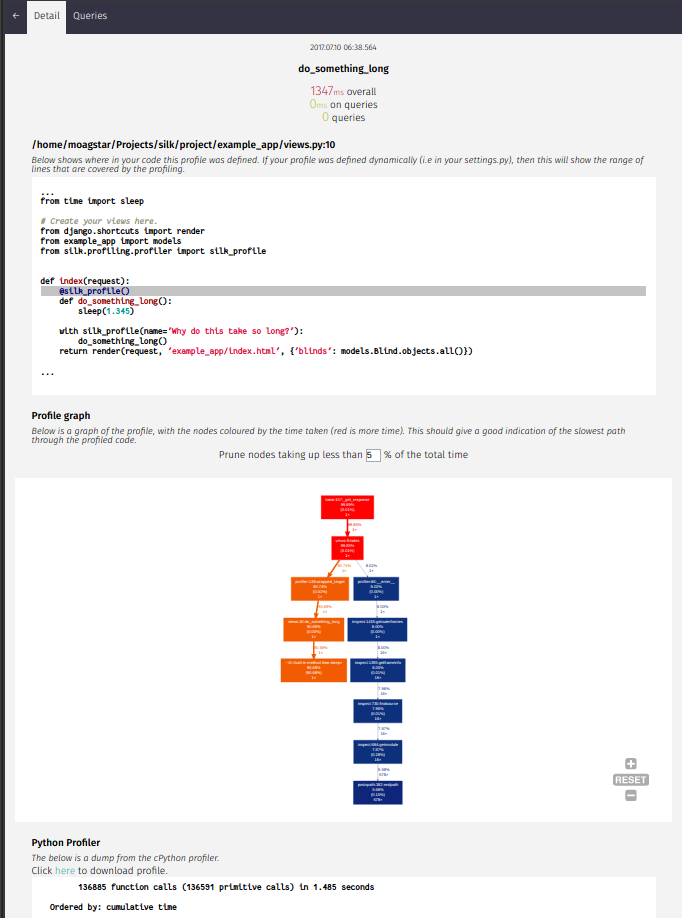
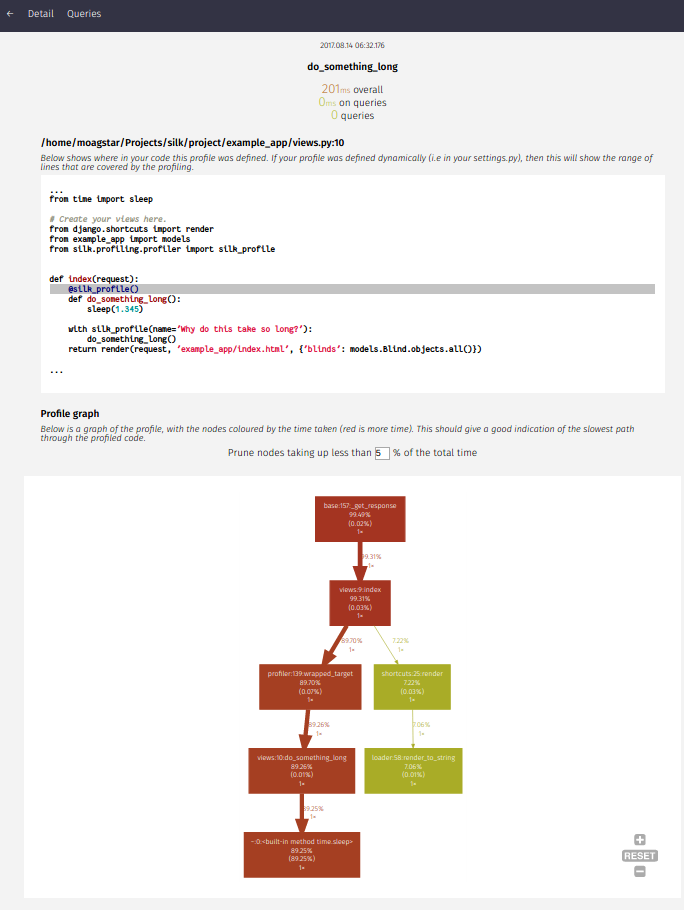
Changed the theme of gprof2dot output to be more inline with rest of silk design (#210)
* add .venv* to .gitignore

* Changed the theme of gprof2dot output to be more inline with the design of the rest of silk. Also increased the height to mak it a little more easier to visualize

diff --git a/silk/templates/silk/profile_detail.html b/silk/templates/silk/profile_detail.html
@@ -7,7 +7,6 @@
 {% block js %}
     <script type="text/javascript" src="{% static 'silk/lib/viz-lite.js' %}"></script>
     <script type="text/javascript" src="{% static 'silk/lib/svg-pan-zoom.min.js' %}"></script>
-    <script type="text/javascript" src="{% static 'silk/lib/sortable.js' %}"></script>
     {{ block.super }}
 {% endblock %}
 
@@ -67,26 +66,6 @@
 
         svg {
           display: block;
-        }
-        
-        .file-path {
-            font-size: 13px;
-        }
-
-        .file-path>a {
-            color: black;
-        }
-
-        .file-path>a:hover {
-            color: #9dd0ff;
-        }
-
-        .file-path>a:active {
-            color: #594F4F;
-        }
-
-        #pyprofile-table {
-            margin-top: 25px;
         }
 
     </style>
@@ -150,7 +129,7 @@
                         function (response) {
                             var svg = '#graph-div';
                             $(svg).html(Viz(response.dot));
-                            $(svg + ' svg').attr('width', 960).attr('height', 480);
+                            $(svg + ' svg').attr('width', 960).attr('height', 600);
                             svgPanZoom(svg + ' svg', { controlIconsEnabled: true });
                         }
                     );
@@ -164,38 +143,13 @@
                 <div class="heading">
                     <div class="inner-heading">Python Profiler</div>
                 </div>
-
                 <div class="description">
-                    Below is a dump from the cPython profiler.
-                    {% if silk_request.prof_file %}
-                    Click <a href="{% url 'silk:request_profile_download' request_id=silk_request.pk %}">here</a> to download profile.
-                    {% endif %}
+                    The below is a dump from the cPython profiler.
                 </div>
-
-                <table id='pyprofile-table' class="sortable">
-                    {% for row in silk_request.profile_table %}
-                        <tr>
-                            {% for column in row %}
-                                {% if forloop.parentloop.counter0 %}
-                                    <td>
-                                        {% if forloop.counter0 == file_column %}
-                                            <div class="file-path">
-                                                {{ column }}
-                                            </div>
-                                            {% if forloop.parentloop.counter0 == pos %}
-                                                {% code pyprofile_code pyprofile_actual_line %}
-                                            {% endif %}
-                                        {% else %}
-                                            {{ column }}
-                                        {% endif %}
-                                    </td>
-                                {% else %}
-                                    <th>{{ column }}</th>
-                                {% endif %}
-                            {% endfor %}
-                        </tr>
-                    {% endfor %}
-                </table>
+                {% if silk_request.prof_file %}
+                Click <a href="{% url 'silk:request_profile_download' request_id=silk_request.pk %}">here</a> to download profile.
+                {% endif %}
+                <pre class="pyprofile">{{ silk_request.pyprofile }}</pre>
                 {% endif %}
             </div>
 

diff --git a/silk/views/profile_dot.py b/silk/views/profile_dot.py
@@ -10,10 +10,20 @@ from django.shortcuts import get_object_or_404
 from django.utils.decorators import method_decorator
 from django.views.generic import View
 from django.http import HttpResponse
-from gprof2dot import DotWriter, PstatsParser, Profile, TEMPERATURE_COLORMAP
+from gprof2dot import DotWriter, PstatsParser, Theme
 # silk
 from silk.auth import login_possibly_required, permissions_possibly_required
 from silk.models import Request
+
+
+COLOR_MAP = Theme(
+    mincolor=(0.18, 0.51, 0.53),
+    maxcolor=(0.03, 0.49, 0.50),
+    gamma=1.5,
+    fontname='FiraSans',
+    minfontsize=6.0,
+    maxfontsize=6.0,
+)
 
 
 @contextmanager
@@ -48,15 +58,8 @@ def _create_dot(profile, cutoff):
     profile.prune(node_cutoff, edge_cutoff, False)
 
     with closing(StringIO()) as fp:
-        DotWriter(fp).graph(profile, TEMPERATURE_COLORMAP)
+        DotWriter(fp).graph(profile, COLOR_MAP)
         return fp.getvalue()
-
-
-def _get_dot(request_id, cutoff):
-    silk_request = get_object_or_404(Request, pk=request_id, prof_file__isnull=False)
-    profile = _create_profile(silk_request.prof_file)
-    result = dict(dot=_create_dot(profile, cutoff))
-    return HttpResponse(json.dumps(result).encode('utf-8'), content_type='application/json')
 
 
 class ProfileDotView(View):
@@ -64,5 +67,8 @@ class ProfileDotView(View):
     @method_decorator(login_possibly_required)
     @method_decorator(permissions_possibly_required)
     def get(self, request, request_id):
+        silk_request = get_object_or_404(Request, pk=request_id, prof_file__isnull=False)
         cutoff = float(request.GET.get('cutoff', '') or 5)
-        return _get_dot(request_id, cutoff)
+        profile = _create_profile(silk_request.prof_file)
+        result = dict(dot=_create_dot(profile, cutoff))
+        return HttpResponse(json.dumps(result).encode('utf-8'), content_type='application/json')
